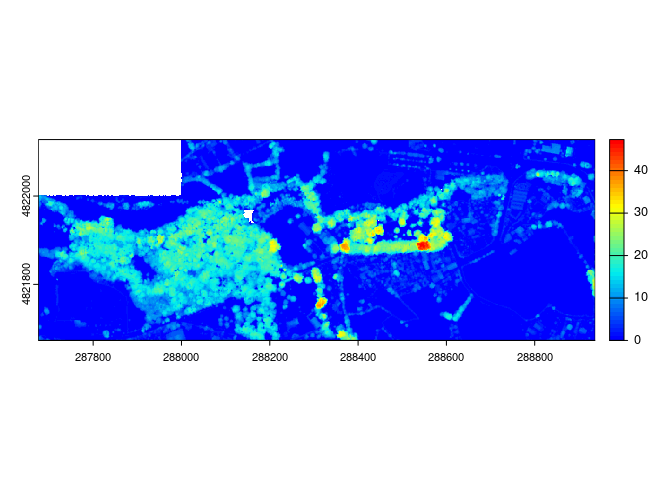
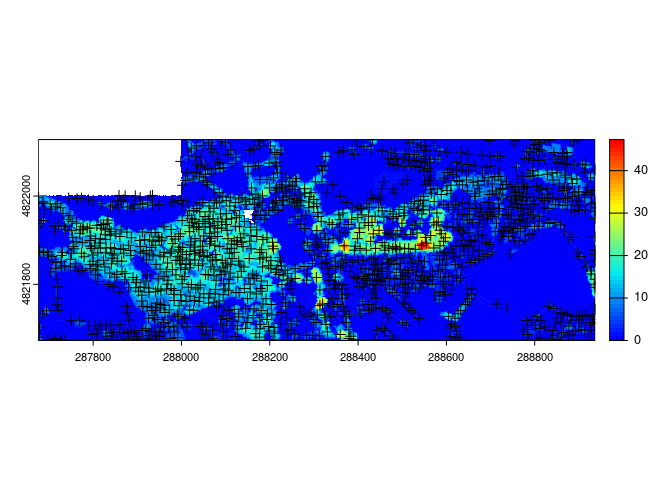
update boxes

Changed region(s): [[0.0312, 0.2812, 0.9062, 0.7188], [0.7812, 0.625, 0.9062, 0.7188], [0.0625, 0.6875, 0.0938, 0.7188]]

diff --git a/code_lidar_copas_botanico.md b/code_lidar_copas_botanico.md
@@ -48,9 +48,9 @@ la nube de puntos:
 
 ``` r
 carbayeda <- clip_circle(mosaico.botanico, 288115, 4821807, radius = 50)
-plot(carbayeda) 
-todo.botanico <- clip_rectangle(mosaico.botanico, 287676,4821673, 288937,4822128)  
-plot(todo.botanico, bg="white") 
+## plot(carbayeda)
+todo.botanico <- clip_rectangle(mosaico.botanico, 287676,4821673, 288937,4822128)
+## plot(todo.botanico, bg="white")
 ```
 
 <figure>
@@ -79,10 +79,6 @@ A continuación podemos usar funciones para evaluar la condición general
 del conjunto de datos. Concretamente `las_check()` repasa diversos
 indicadores interesantes, entre ellos si los datos están normalizados
 (elaboro debajo), o si existen muchos puntos duplicados.
-
-``` r
-las_check(todo.botanico)
-```
 
     ## 
     ##  Checking the data
@@ -130,10 +126,6 @@ las_check(todo.botanico)
     ##    -  Overlap_flag is compressed
     ##    -  UserData is compressed
 
-``` r
-str(todo.botanico@data)
-```
-
     ## Classes 'data.table' and 'data.frame':   1716035 obs. of  21 variables:
     ##  $ X                : num  287998 287996 287997 287998 287997 ...
     ##  $ Y                : num  4821687 4821694 4821716 4821735 4821706 ...
@@ -174,68 +166,19 @@ altura de cada punto sobre el nivel del mar. Sin embargo para analizr
 estructura de la vegetación puede ser interesante **normalizar las nubes
 de puntos**, eliminando la influencia de la altura del terreno. Es el
 cometido de `normalize_height`, [que admite distintos
-métodos](https://r-lidar.github.io/lidRbook/norm.html). Tras normalizar
-los datos podemos aplicar `las_check` de nuevo, así como repasar la
-nueva distribución de valores de alturas (Z):
+métodos](https://r-lidar.github.io/lidRbook/norm.html).
+
+Tras normalizar los datos podemos aplicar `las_check` de nuevo, así como
+repasar la nueva distribución de valores de alturas (Z):
 
 ``` r
 todo.botanico.norm <- normalize_height(todo.botanico, tin())
 ```
 
-    ## Delaunay rasterization[====================================--------------] 72% (2 threads)Delaunay rasterization[====================================--------------] 73% (2 threads)Delaunay rasterization[=====================================-------------] 74% (2 threads)Delaunay rasterization[=====================================-------------] 75% (2 threads)Delaunay rasterization[======================================------------] 76% (2 threads)Delaunay rasterization[======================================------------] 77% (2 threads)Delaunay rasterization[=======================================-----------] 78% (2 threads)Delaunay rasterization[=======================================-----------] 79% (2 threads)Delaunay rasterization[========================================----------] 80% (2 threads)Delaunay rasterization[========================================----------] 81% (2 threads)Delaunay rasterization[=========================================---------] 82% (2 threads)Delaunay rasterization[=========================================---------] 83% (2 threads)Delaunay rasterization[==========================================--------] 84% (2 threads)Delaunay rasterization[==========================================--------] 85% (2 threads)Delaunay rasterization[===========================================-------] 86% (2 threads)Delaunay rasterization[===========================================-------] 87% (2 threads)Delaunay rasterization[============================================------] 88% (2 threads)Delaunay rasterization[============================================------] 89% (2 threads)Delaunay rasterization[=============================================-----] 90% (2 threads)Delaunay rasterization[=============================================-----] 91% (2 threads)Delaunay rasterization[==============================================----] 92% (2 threads)Delaunay rasterization[==============================================----] 93% (2 threads)Delaunay rasterization[===============================================---] 94% (2 threads)Delaunay rasterization[===============================================---] 95% (2 threads)Delaunay rasterization[================================================--] 96% (2 threads)Delaunay rasterization[================================================--] 97% (2 threads)Delaunay rasterization[=================================================-] 98% (2 threads)Delaunay rasterization[=================================================-] 99% (2 threads)Delaunay rasterization[==================================================] 100% (2 threads)
+    ## Delaunay rasterization[=================================-----------------] 67% (2 threads)Delaunay rasterization[==================================----------------] 68% (2 threads)Delaunay rasterization[==================================----------------] 69% (2 threads)Delaunay rasterization[===================================---------------] 70% (2 threads)Delaunay rasterization[===================================---------------] 71% (2 threads)Delaunay rasterization[====================================--------------] 72% (2 threads)Delaunay rasterization[====================================--------------] 73% (2 threads)Delaunay rasterization[=====================================-------------] 74% (2 threads)Delaunay rasterization[=====================================-------------] 75% (2 threads)Delaunay rasterization[======================================------------] 76% (2 threads)Delaunay rasterization[======================================------------] 77% (2 threads)Delaunay rasterization[=======================================-----------] 78% (2 threads)Delaunay rasterization[=======================================-----------] 79% (2 threads)Delaunay rasterization[========================================----------] 80% (2 threads)Delaunay rasterization[========================================----------] 81% (2 threads)Delaunay rasterization[=========================================---------] 82% (2 threads)Delaunay rasterization[=========================================---------] 83% (2 threads)Delaunay rasterization[==========================================--------] 84% (2 threads)Delaunay rasterization[==========================================--------] 85% (2 threads)Delaunay rasterization[===========================================-------] 86% (2 threads)Delaunay rasterization[===========================================-------] 87% (2 threads)Delaunay rasterization[============================================------] 88% (2 threads)Delaunay rasterization[============================================------] 89% (2 threads)Delaunay rasterization[=============================================-----] 90% (2 threads)Delaunay rasterization[=============================================-----] 91% (2 threads)Delaunay rasterization[==============================================----] 92% (2 threads)Delaunay rasterization[==============================================----] 93% (2 threads)Delaunay rasterization[===============================================---] 94% (2 threads)Delaunay rasterization[===============================================---] 95% (2 threads)Delaunay rasterization[================================================--] 96% (2 threads)Delaunay rasterization[================================================--] 97% (2 threads)Delaunay rasterization[=================================================-] 98% (2 threads)Delaunay rasterization[=================================================-] 99% (2 threads)Delaunay rasterization[==================================================] 100% (2 threads)
 
 ``` r
-las_check(todo.botanico.norm)
-```
-
-    ## 
-    ##  Checking the data
-    ##   - Checking coordinates...[0;32m ✓[0m
-    ##   - Checking coordinates type...[0;32m ✓[0m
-    ##   - Checking coordinates range...[0;32m ✓[0m
-    ##   - Checking coordinates quantization...[0;32m ✓[0m
-    ##   - Checking attributes type...[0;32m ✓[0m
-    ##   - Checking ReturnNumber validity...[0;32m ✓[0m
-    ##   - Checking NumberOfReturns validity...[0;32m ✓[0m
-    ##   - Checking ReturnNumber vs. NumberOfReturns...[0;32m ✓[0m
-    ##   - Checking RGB validity...[0;32m ✓[0m
-    ##   - Checking absence of NAs...[0;32m ✓[0m
-    ##   - Checking duplicated points...
-    ##  [1;33m   ⚠ 32 points are duplicated and share XYZ coordinates with other points[0m
-    ##   - Checking degenerated ground points...[0;32m ✓[0m
-    ##   - Checking attribute population...[0;32m ✓[0m
-    ##   - Checking gpstime incoherances[0;32m ✓[0m
-    ##   - Checking flag attributes...[0;32m ✓[0m
-    ##   - Checking user data attribute...[0;32m ✓[0m
-    ##  Checking the header
-    ##   - Checking header completeness...[0;32m ✓[0m
-    ##   - Checking scale factor validity...[0;32m ✓[0m
-    ##   - Checking point data format ID validity...[0;32m ✓[0m
-    ##   - Checking extra bytes attributes validity...[0;32m ✓[0m
-    ##   - Checking the bounding box validity...[0;32m ✓[0m
-    ##   - Checking coordinate reference system...[0;32m ✓[0m
-    ##  Checking header vs data adequacy
-    ##   - Checking attributes vs. point format...[0;32m ✓[0m
-    ##   - Checking header bbox vs. actual content...[0;32m ✓[0m
-    ##   - Checking header number of points vs. actual content...[0;32m ✓[0m
-    ##   - Checking header return number vs. actual content...[0;32m ✓[0m
-    ##  Checking coordinate reference system...
-    ##   - Checking if the CRS was understood by R...[0;32m ✓[0m
-    ##  Checking preprocessing already done 
-    ##   - Checking ground classification...[0;32m yes[0m
-    ##   - Checking normalization...[1;33m maybe[0m
-    ##   - Checking negative outliers...
-    ##  [1;33m   ⚠ 127086 points below 0[0m
-    ##   - Checking flightline classification...[0;32m yes[0m
-    ##  Checking compression
-    ##   - Checking attribute compression...
-    ##    -  Synthetic_flag is compressed
-    ##    -  Keypoint_flag is compressed
-    ##    -  Withheld_flag is compressed
-    ##    -  Overlap_flag is compressed
-    ##    -  UserData is compressed
-
-``` r
+## las_check(todo.botanico.norm)
 summary(todo.botanico.norm$Z)
 ```
 
@@ -258,7 +201,7 @@ dosel.modelo1 <- rasterize_canopy(todo.botanico.norm, res=1, p2r(subcircle = 0.2
 plot(dosel.modelo1, col = height.colors(50))
 ```
 
-![](code_lidar_copas_botanico_files/figure-gfm/unnamed-chunk-9-1.png)<!-- -->
+![](code_lidar_copas_botanico_files/figure-gfm/unnamed-chunk-8-1.png)<!-- -->
 
 ### Suavizado del modelo - rellenando blancos
 
@@ -272,7 +215,7 @@ dosel.modelo1.suavizado <- terra::focal(dosel.modelo1, w, fun = mean, na.rm = TR
 plot(dosel.modelo1.suavizado, col = height.colors(50))
 ```
 
-![](code_lidar_copas_botanico_files/figure-gfm/unnamed-chunk-10-1.png)<!-- -->
+![](code_lidar_copas_botanico_files/figure-gfm/unnamed-chunk-9-1.png)<!-- -->
 
 ``` r
 terra::writeRaster(dosel.modelo1.suavizado, "dosel.modelo1.tif", overwrite=T)
@@ -289,11 +232,11 @@ plot(dosel.modelo1.suavizado, col = height.colors(50))
 plot(sf::st_geometry(copas.p2r.02), add = TRUE, pch = 3)
 ```
 
-![](code_lidar_copas_botanico_files/figure-gfm/unnamed-chunk-11-1.png)<!-- -->
+![](code_lidar_copas_botanico_files/figure-gfm/unnamed-chunk-10-1.png)<!-- -->
 
 ### Segmentación de los árboles detectados
 
-**EXPLICAR**
+***EXPLICAR…***
 
 ``` r
 segmentos <- dalponte2016(dosel.modelo1.suavizado, copas.p2r.02)
@@ -362,55 +305,7 @@ datos, de las que podemos extraer información de la manera habitual:
 puntos, y sobre variables concretas en ella, como la altura (Z).
 
 ``` r
-summary(okaliton)
-```
-
-    ## class        : LAS (v1.4 format 7)
-    ## memory       : 324.5 Kb 
-    ## extent       : 288535, 288554, 4821879, 4821898 (xmin, xmax, ymin, ymax)
-    ## coord. ref.  : GCS_ETRS_1989 
-    ## area         : 296.6 m²
-    ## points       : 3.3 thousand points
-    ## density      : 11.07 points/m²
-    ## density      : 4.95 pulses/m²
-    ## File signature:           LASF 
-    ## File source ID:           0 
-    ## Global encoding:
-    ##  - GPS Time Type: GPS Week Time 
-    ##  - Synthetic Return Numbers: no 
-    ##  - Well Know Text: CRS is WKT 
-    ##  - Aggregate Model: false 
-    ## Project ID - GUID:        00000000-0000-0000-0000-000000000000 
-    ## Version:                  1.4
-    ## System identifier:         
-    ## Generating software:       
-    ## File creation d/y:        1/1
-    ## header size:              375 
-    ## Offset to point data:     1165 
-    ## Num. var. length record:  1 
-    ## Point data format:        7 
-    ## Point data record length: 36 
-    ## Num. of point records:    3282 
-    ## Num. of points by return: 1469 1104 518 167 24 0 0 0 0 0 0 0 0 0 0 
-    ## Scale factor X Y Z:       0.001 0.001 0.001 
-    ## Offset X Y Z:             287000 4821000 0 
-    ## min X Y Z:                288535 4821879 0 
-    ## max X Y Z:                288554 4821898 47.398 
-    ## Variable Length Records (VLR):
-    ##    Variable Length Record 1 of 2 
-    ##        Description: WKT Information 
-    ##        WKT OGC COORDINATE SYSTEM: COMPOUNDCRS["GCS_ETRS_1989",
-    ##     PROJCRS["ETRS89 / UTM zone 30N (N-E)",
-    ##  [...] (truncated)
-    ##    Variable Length Record 2 of 2 
-    ##        Description: rlas extra bytes 
-    ##        Extra Bytes Description:
-    ##           treeID: An ID for each segmented tree
-    ## Extended Variable Length Records (EVLR):
-    ##    Extended Variable length record 1 of 1 
-    ##        Description: Contains calculated statistics
-
-``` r
+## summary(okaliton)
 summary(okaliton@data$Z)
 ```
 
